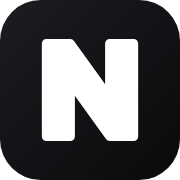
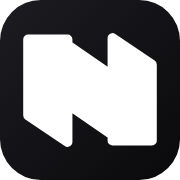
Логотип-монограмма N, устранена полоса внизу экрана
Claude-Session: https://claude.ai/code/session_01FsDRmW33rEGe7btnssq8WG

Changed region(s): [[0.1111, 0.1667, 0.8889, 0.8333]]

diff --git a/styles.css b/styles.css
@@ -40,10 +40,8 @@
 * { box-sizing: border-box; margin: 0; -webkit-tap-highlight-color: transparent; }
 
 html, body {
-  height: 100%;
+  min-height: 100%;
   background: var(--bg);
-  background-image: radial-gradient(90% 60% at 50% 100%, #1e1e22 0%, rgba(20, 20, 22, 0) 70%);
-  background-attachment: fixed;
   color: var(--text);
   font: 400 16px/1.45 Manrope, -apple-system, BlinkMacSystemFont, "Segoe UI", Roboto, sans-serif;
   letter-spacing: -.01em;
@@ -54,7 +52,7 @@ html, body {
 button, input { font: inherit; letter-spacing: inherit; color: inherit; }
 button { background: none; border: 0; cursor: pointer; touch-action: manipulation; }
 
-#app { height: 100%; }
+#app { min-height: 100dvh; }
 
 .screen {
   position: relative;
@@ -65,6 +63,7 @@ button { background: none; border: 0; cursor: pointer; touch-action: manipulatio
   flex-direction: column;
   padding: calc(var(--safe-top) + 12px) 18px calc(var(--safe-bottom) + 16px);
   overflow: hidden;
+  background-image: radial-gradient(95% 55% at 50% 100%, #1f1f24 0%, rgba(20, 20, 22, 0) 72%);
   animation: in .24s ease-out;
 }
 .screen.tabbed { padding-bottom: 0; }
@@ -73,7 +72,7 @@ button { background: none; border: 0; cursor: pointer; touch-action: manipulatio
 
 @media (min-width: 700px) {
   body { display: grid; place-items: center; background: #0c0c0e; background-image: radial-gradient(70% 60% at 50% 50%, #17171a 0%, #0c0c0e 70%); }
-  #app { height: auto; }
+  #app { min-height: 0; height: auto; }
   .screen {
     height: min(880px, 100dvh - 40px);
     width: 420px;

diff --git a/index.html b/index.html
@@ -3,7 +3,7 @@
 <head>
   <meta charset="utf-8">
   <meta name="viewport" content="width=device-width, initial-scale=1, maximum-scale=1, user-scalable=no, viewport-fit=cover">
-  <meta name="theme-color" content="#08080a">
+  <meta name="theme-color" content="#141416">
   <meta name="mobile-web-app-capable" content="yes">
   <meta name="apple-mobile-web-app-capable" content="yes">
   <meta name="apple-mobile-web-app-status-bar-style" content="black-translucent">

diff --git a/sw.js b/sw.js
@@ -1,4 +1,4 @@
-const CACHE = 'nota-v13';
+const CACHE = 'nota-v14';
 const SHELL = ['./', './index.html', './styles.css', './app.js', './store.js', './auth.js', './ui.js', './screens.js', './statement.js', './manifest.webmanifest', './icon.svg', './icon-180.png', './icon-512.png', './fonts/manrope-latin.woff2', './fonts/manrope-cyrillic.woff2'];
 
 self.addEventListener('install', (e) => {
